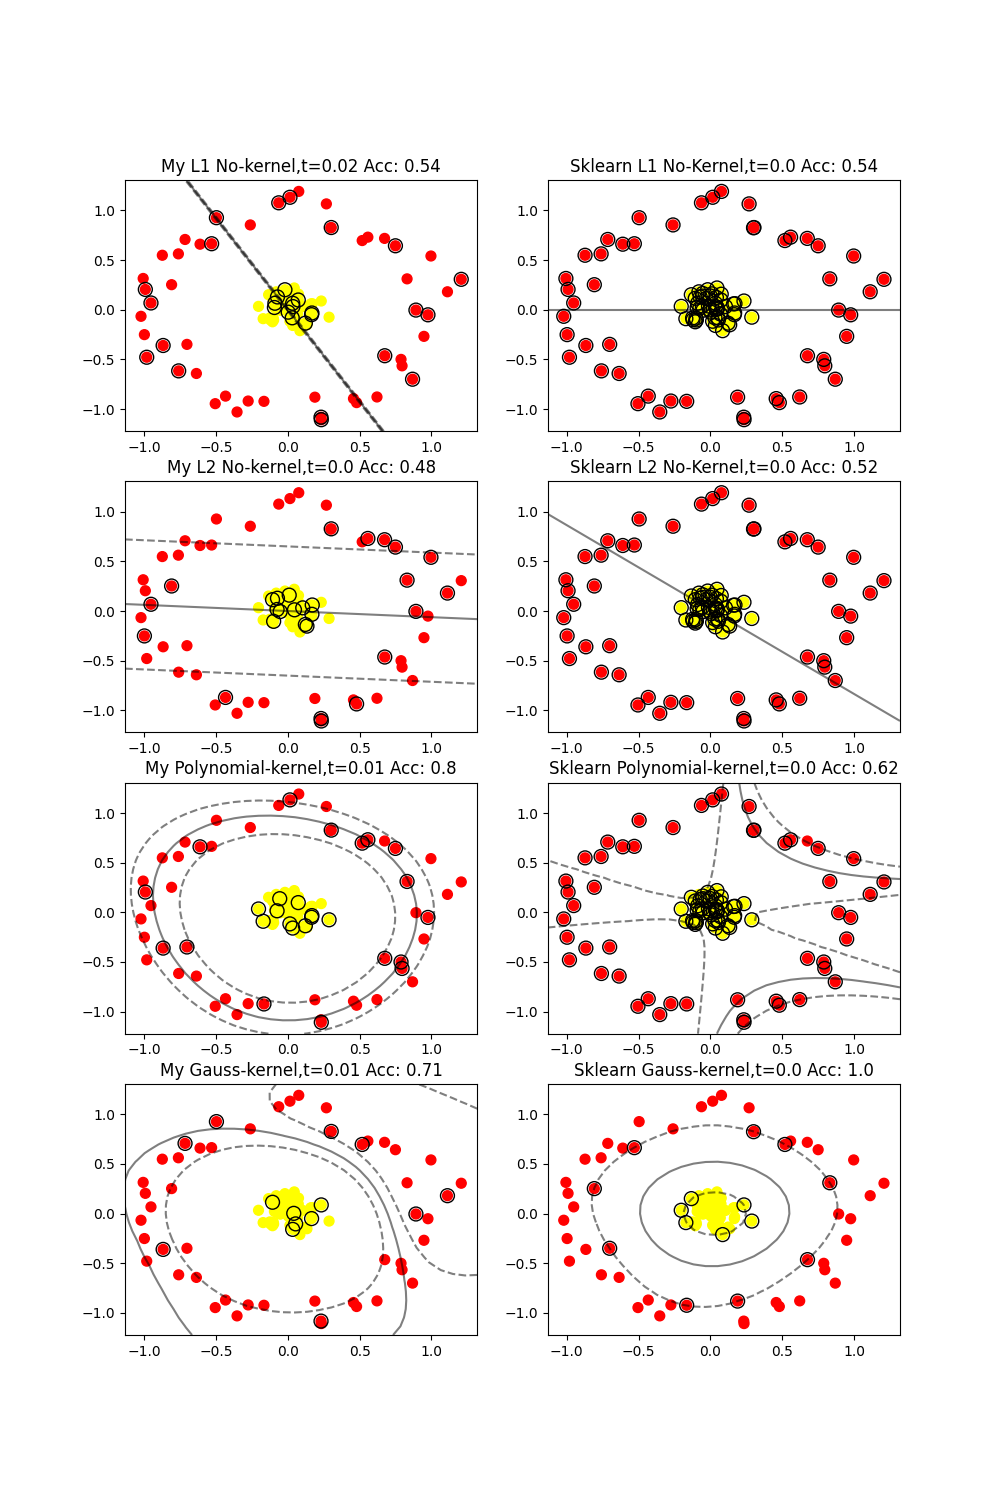
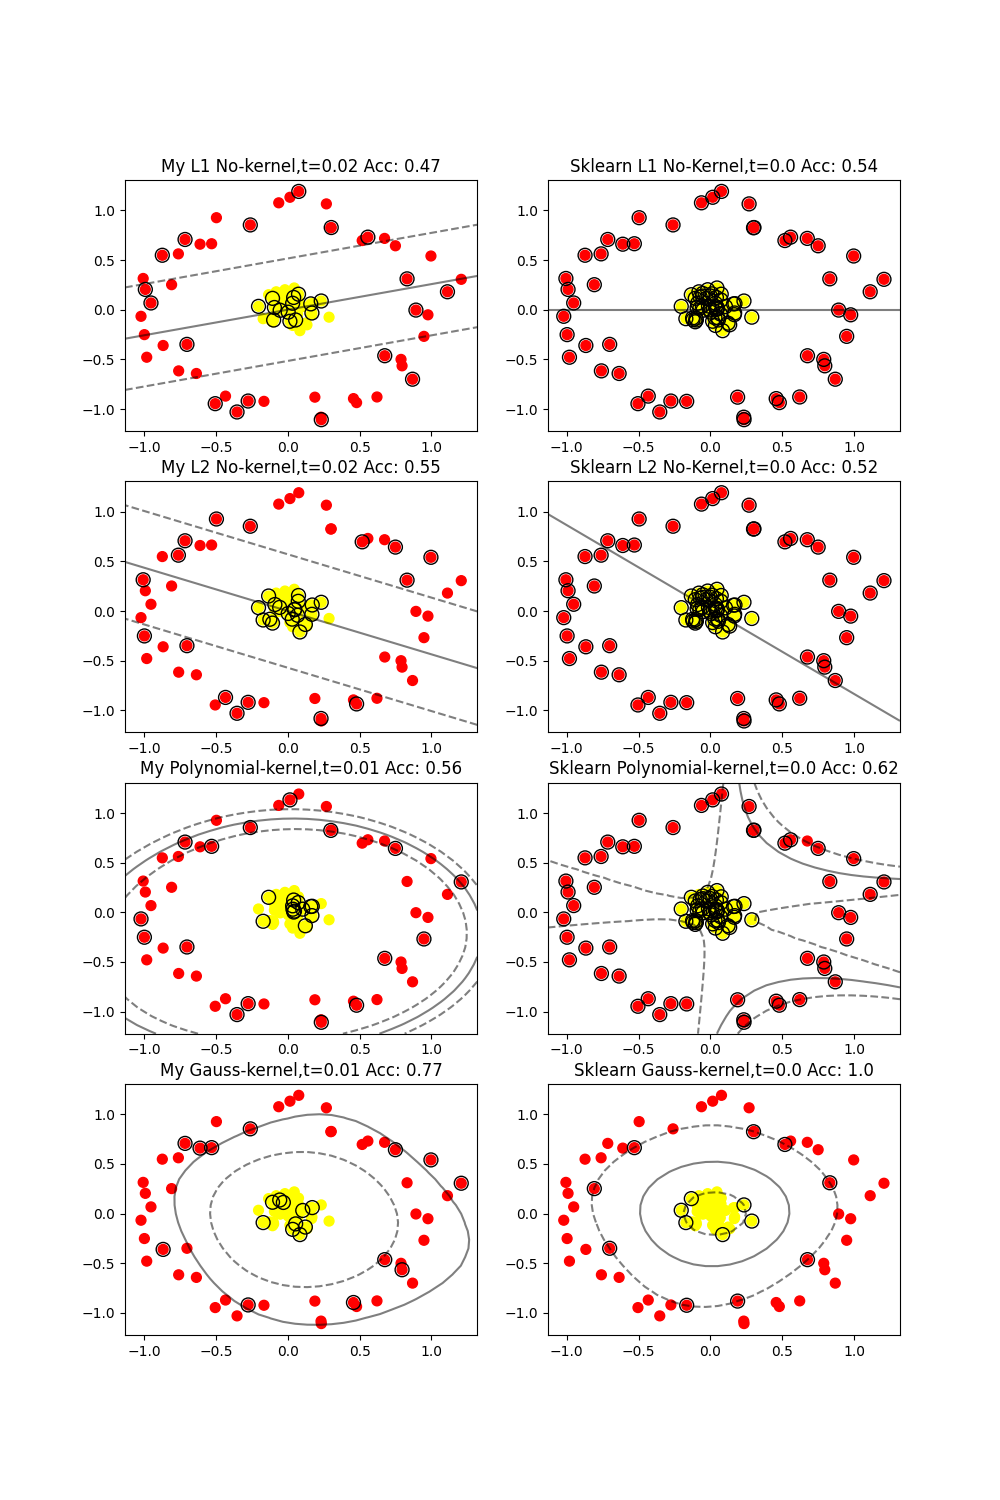
Final Without MultiClass

diff --git a/model/algorithm/smo.py b/model/algorithm/smo.py
@@ -31,7 +31,6 @@ class SMO:
                     if status:
                         flag_alpha_changed += 1
                         b, alpha = data
-                        # print(f"全样本遍历:第{flag_iteration_count}次迭代 样本:{i}, alpha优化次数:{flag_alpha_changed}")
             else:
                 out_bounds = np.nonzero((alpha > 0) * (alpha < self.C))[0]  # 遍历不在边界0和C的alpha
                 for i in out_bounds:
@@ -40,10 +39,8 @@ class SMO:
                     if status:
                         flag_alpha_changed += 1
                         b, alpha = data
-                        # print(f"非边界遍历:第{flag_iteration_count}次迭代 样本:{i}, alpha优化次数:{flag_alpha_changed}")
                 if not flag_alpha_changed:
                     flag_inter_over_set = True
-            # print("迭代次数: %d" % flag_iteration_count)
 
         return alpha, b
 

diff --git a/main.py b/main.py
@@ -41,7 +41,7 @@ draw(model, X, Y, ax2, f"Sklearn L1 No-Kernel,t={round(end - begin, 2)}", suppor
 
 # 软间隔 L2 无核函数 SVM
 begin = time.time()
-model = SoftMarginKernelSVM(kernel=no_kernel)
+model = SoftMarginKernelSVM(kernel=no_kernel, C=1e10)
 model.fit(X.values, Y.values[:, np.newaxis])
 end = time.time()
 draw(model, X, Y, ax3, f"My L2 No-kernel,t={round(end - begin, 2)}")
@@ -86,3 +86,4 @@ draw(model, X, Y, ax8, f"Sklearn Gauss-kernel,t={round(end - begin, 2)}")
 
 plt.show()
 fig.savefig(f"Last-{datasets[0]}.png")
+fig.savefig(f"Last.png")
